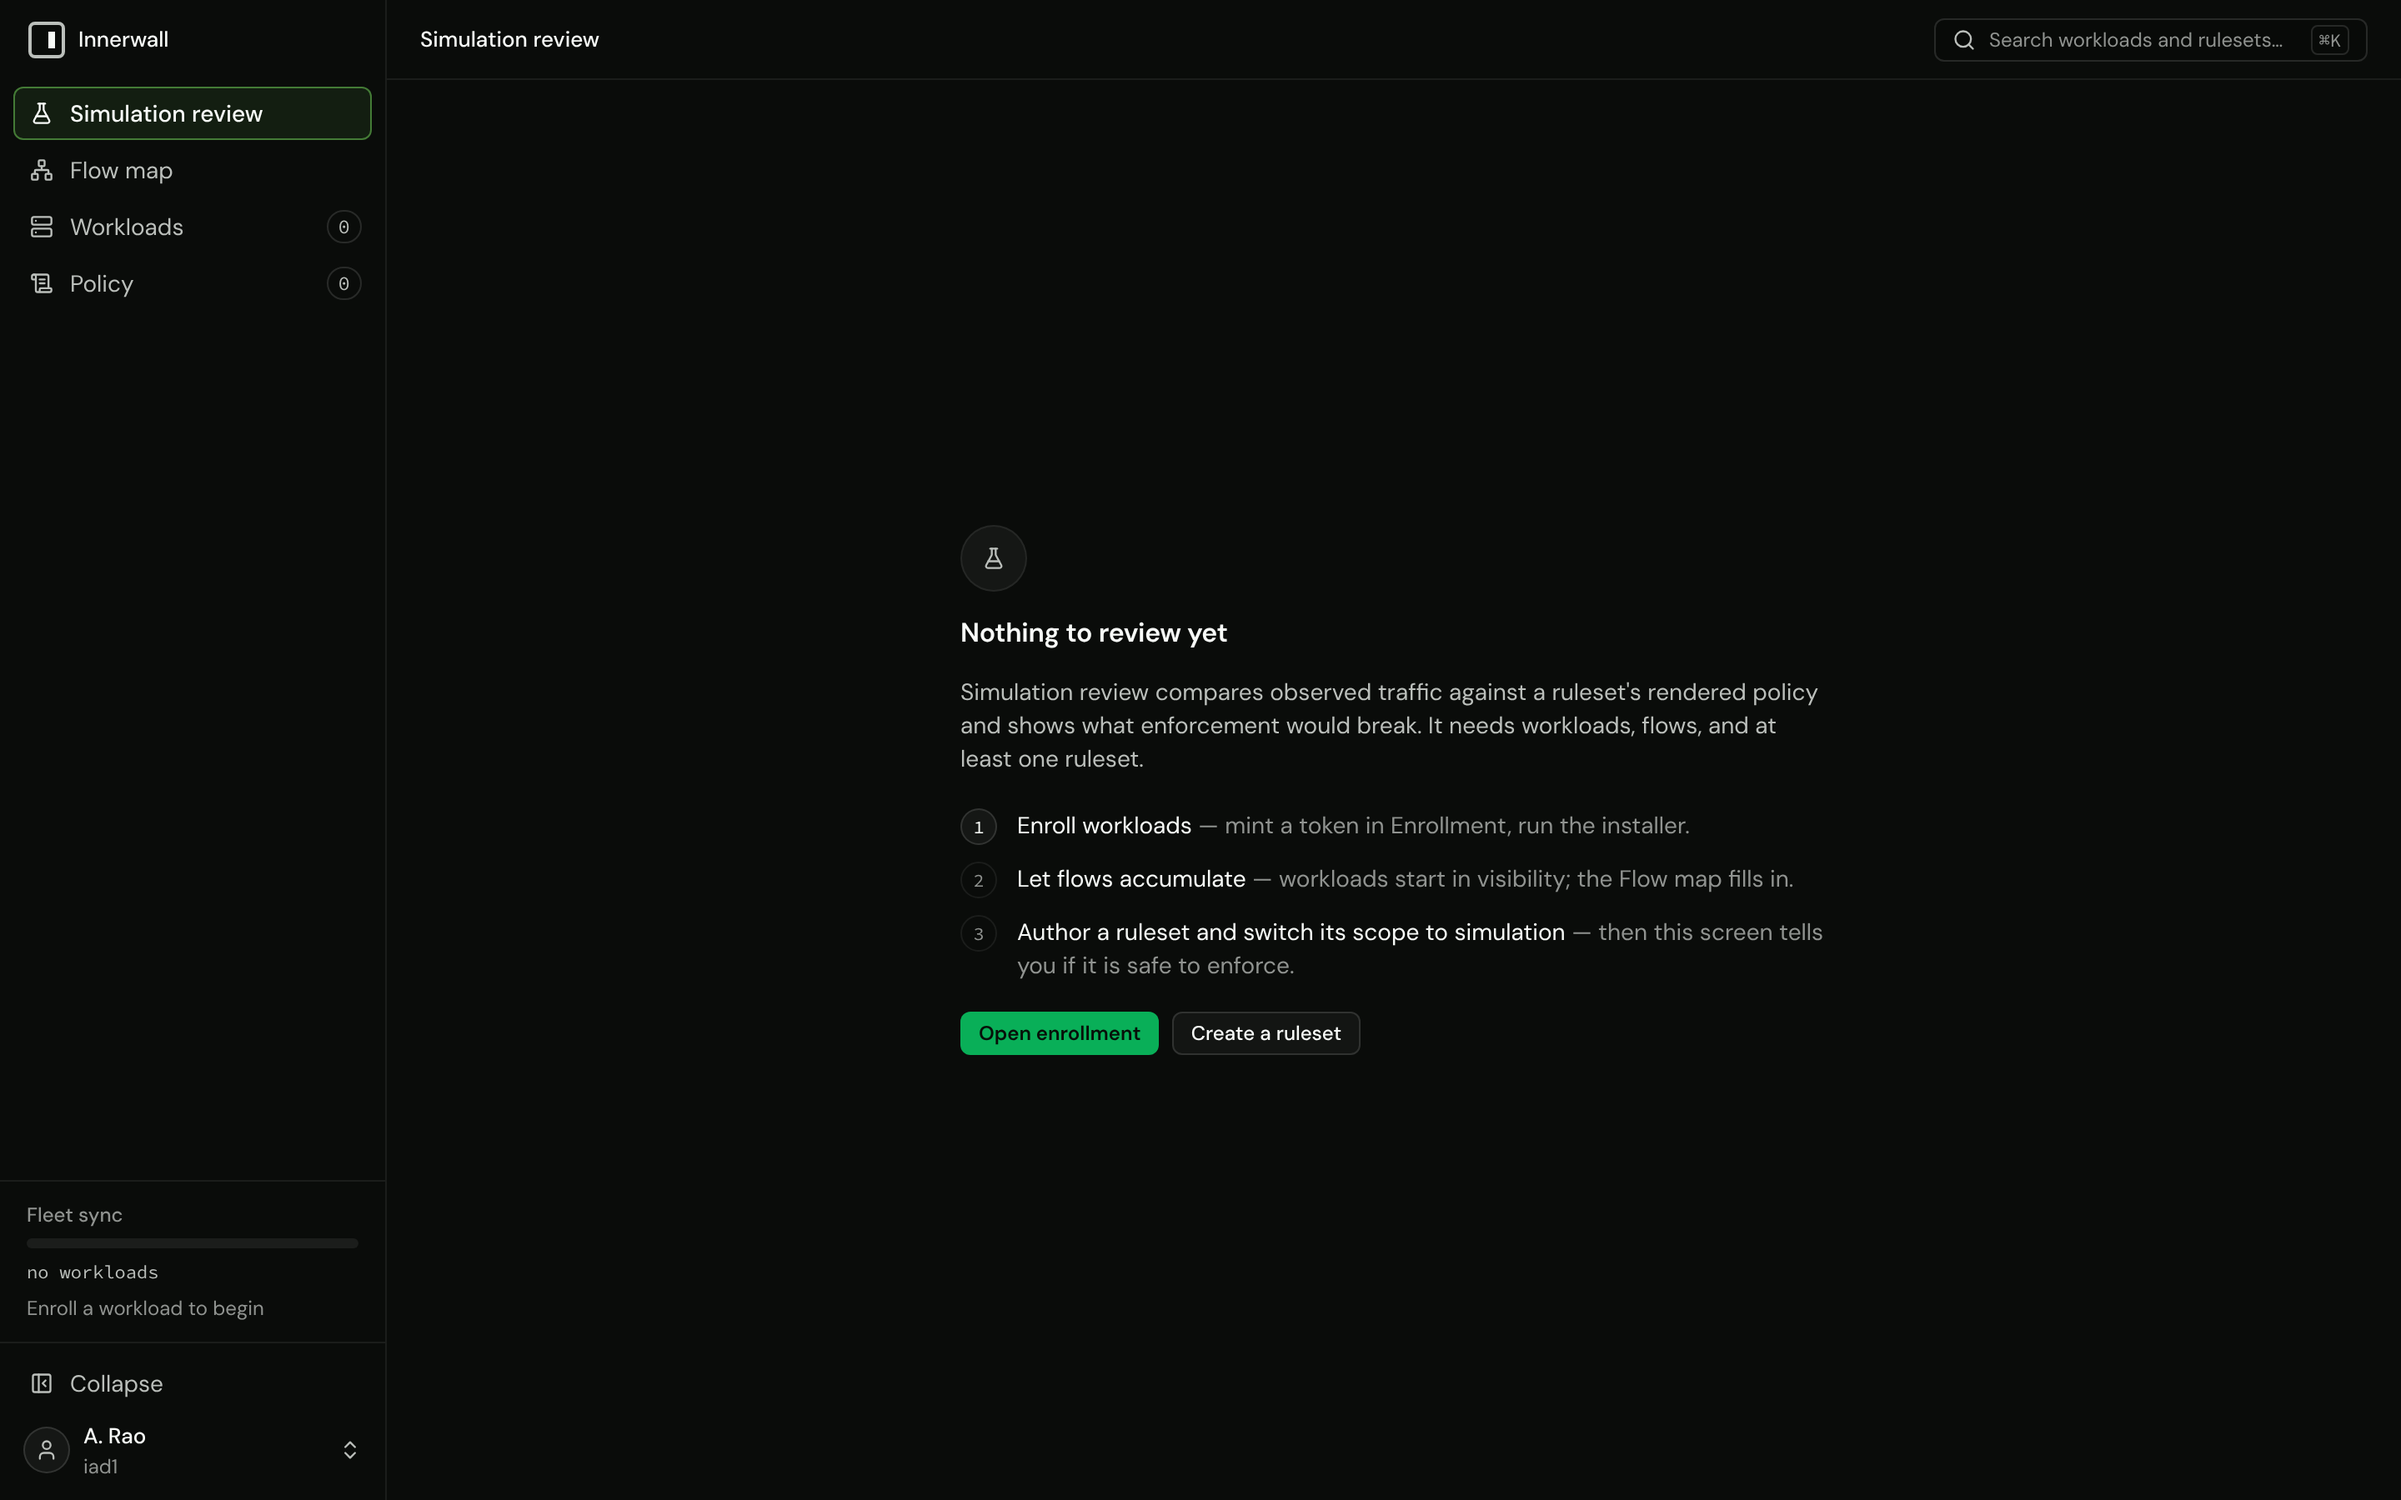
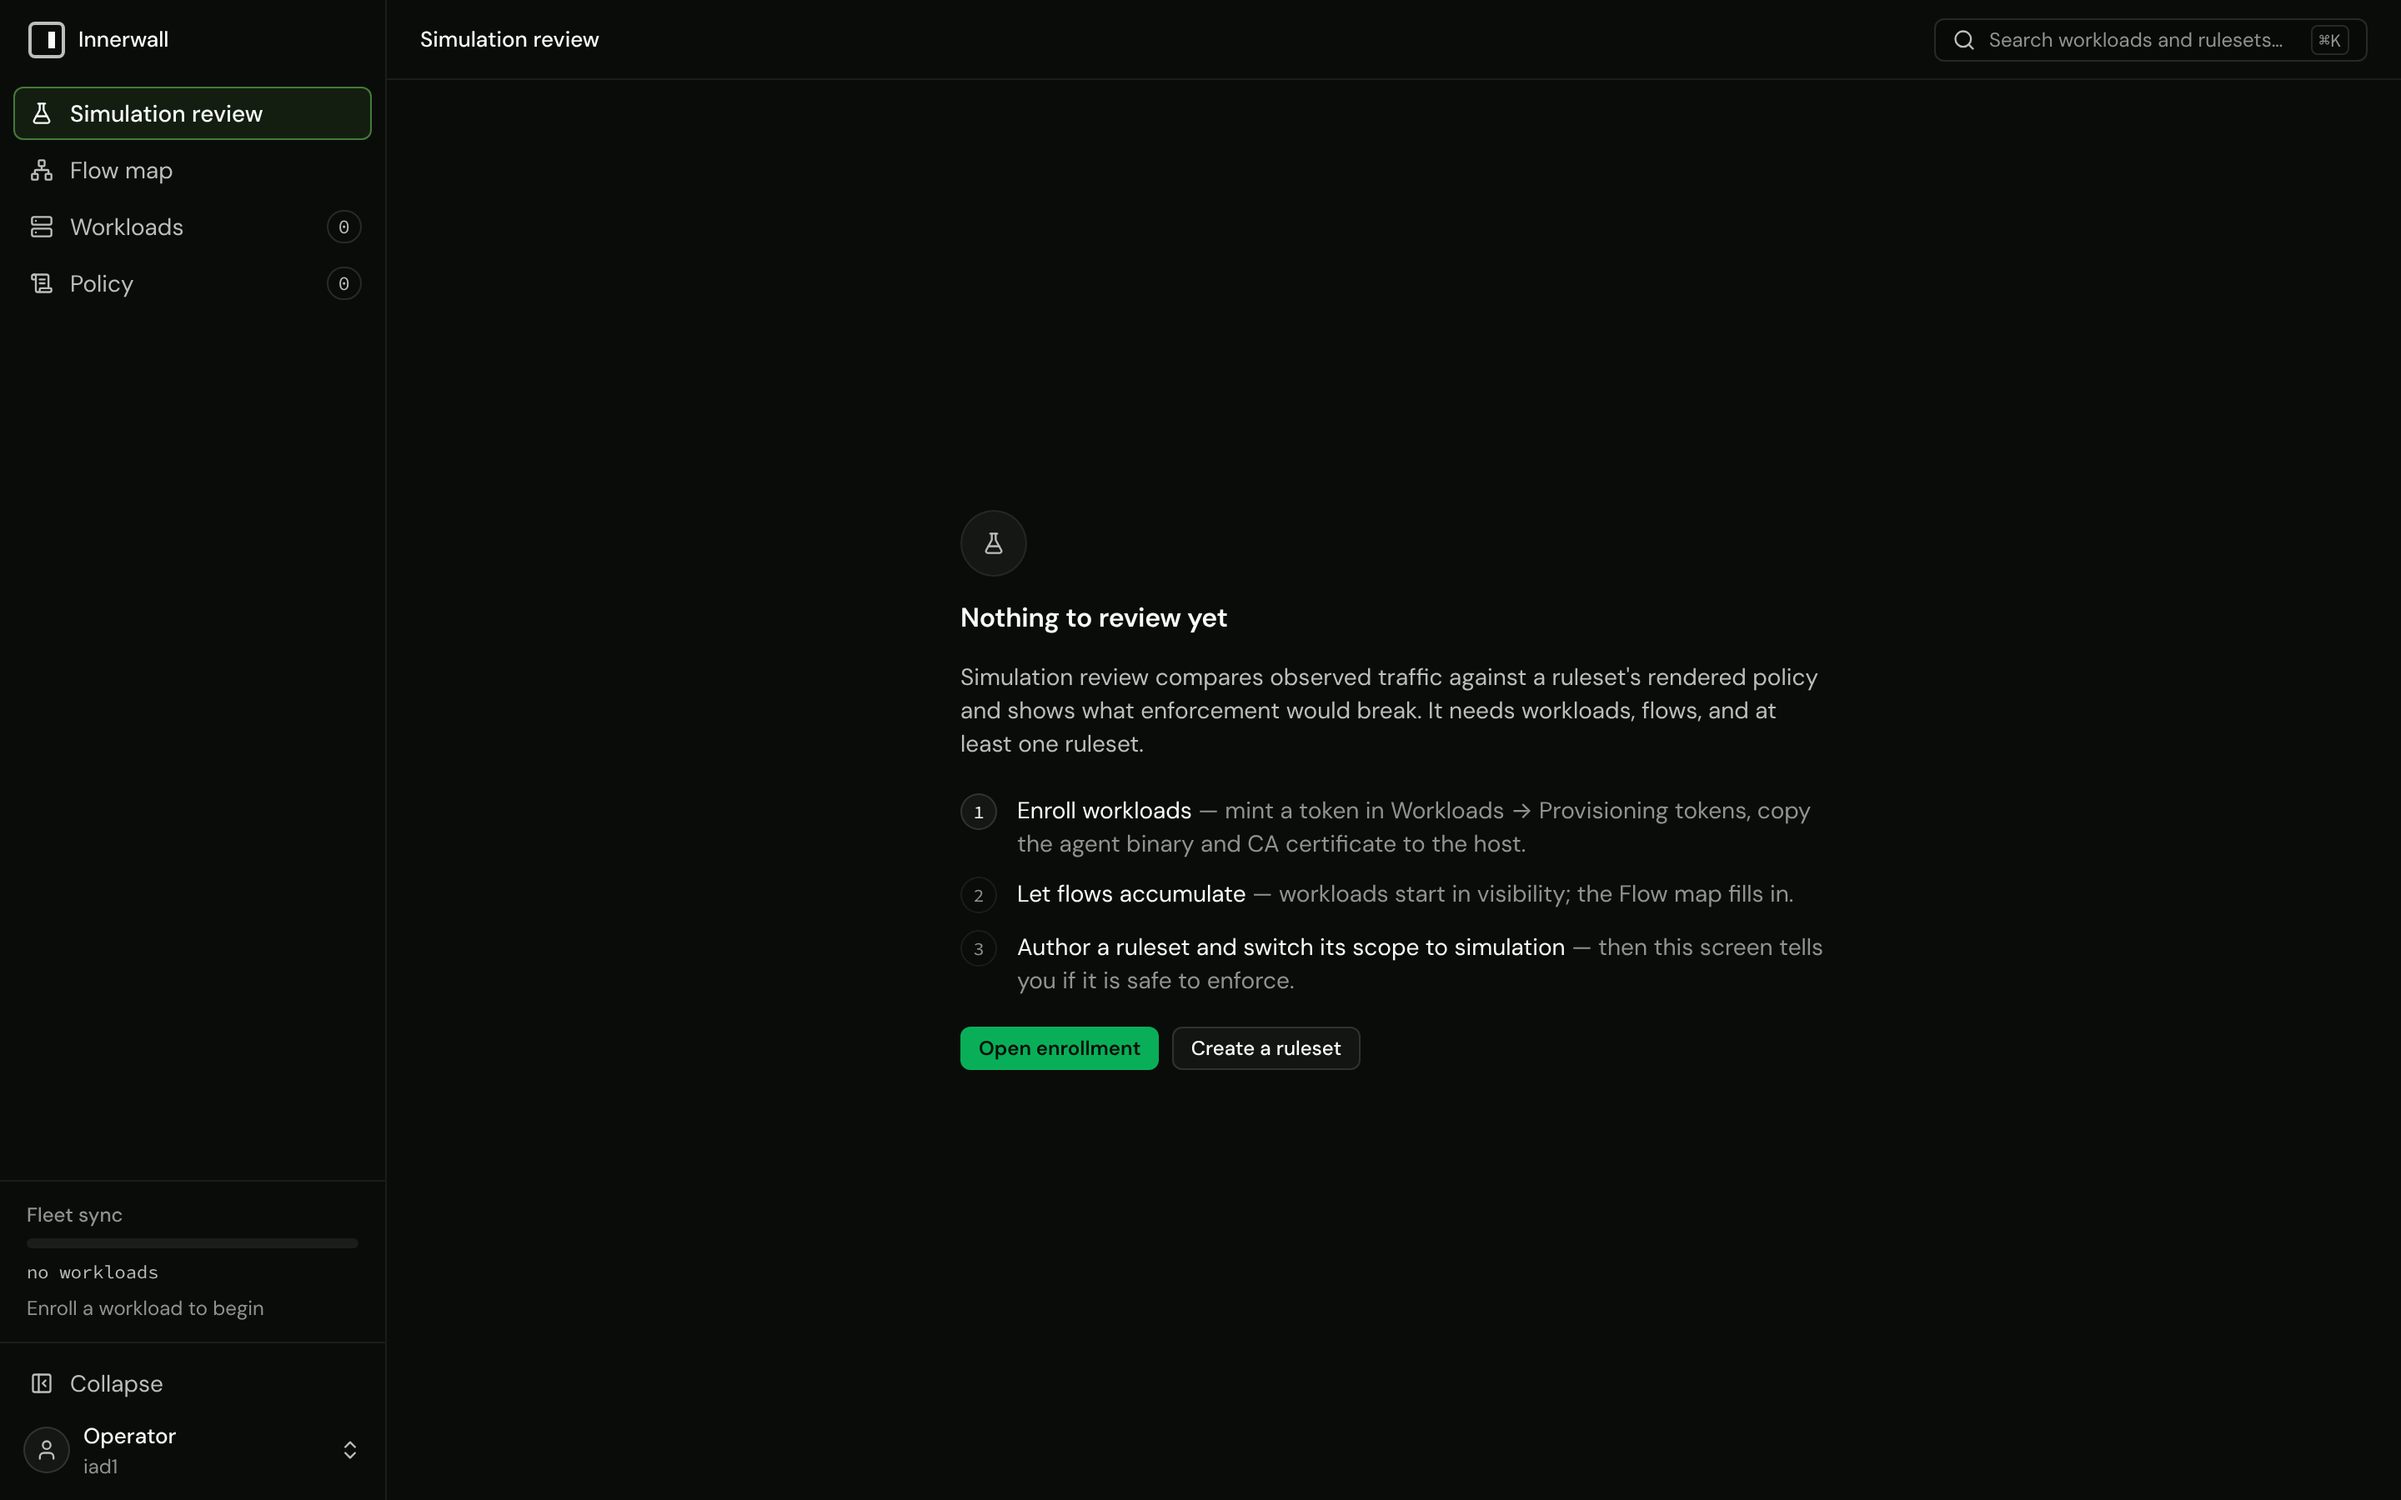
fix(console): enroll-flow copy names what exists
The simulation review's fresh-install step promised an installer that
does not exist and pointed at an "Enrollment" surface no screen is
named. It now says to mint a token in Workloads → Provisioning tokens and
copy the agent binary and CA certificate to the host, which holds
whichever way the agent ends up installed. The mint dialog's enroll
command names the CA certificate ca.crt, the file every install
document produces and installs, so a pasted command finds it.

Fixes #150 (INN-100)

Changed region(s): [[0.4062, 0.4044, 0.75, 0.7156], [0.0312, 0.9333, 0.0625, 0.9644]]

diff --git a/ui/src/routes/fleet/MintDialog.tsx b/ui/src/routes/fleet/MintDialog.tsx
@@ -328,7 +328,7 @@ function ShownOnce({ minted }: { minted: MintedToken }) {
 				<div className="flex flex-col gap-1.5">
 					<span className="type-meta-label text-tertiary">Enroll a host</span>
 					<pre className="rounded-control border border-hairline bg-field-sunk px-3 py-2 type-mono-sm whitespace-pre-wrap text-secondary">
-						{`innerwall-agent enroll --server ${gateway} \\\n  --token ${masked(minted.token)} --bootstrap-ca ./innerwall-ca.crt`}
+						{`innerwall-agent enroll --server ${gateway} \\\n  --token ${masked(minted.token)} --bootstrap-ca ca.crt`}
 					</pre>
 					<span className="type-caption text-tertiary">
 						Distribute the CA certificate alongside the token; the agent uses it

diff --git a/ui/src/routes/review/review.test.tsx b/ui/src/routes/review/review.test.tsx
@@ -898,6 +898,11 @@ describe("simulation review states", () => {
 		expect(
 			await screen.findByRole("heading", { name: "Nothing to review yet" }),
 		).toBeInTheDocument();
+		// Enrolling names the tab tokens are minted in and what the host
+		// needs, whichever way the agent is installed.
+		expect(document.body).toHaveTextContent(
+			"Enroll workloads — mint a token in Workloads → Provisioning tokens, copy the agent binary and CA certificate to the host.",
+		);
 	});
 
 	it("says when every ruleset is disabled", async () => {

diff --git a/ui/src/routes/fleet/tokens.test.tsx b/ui/src/routes/fleet/tokens.test.tsx
@@ -272,6 +272,8 @@ describe("mint dialog", () => {
 		expect(done).toHaveTextContent(
 			"innerwall-agent enroll --server gw.iad1.example:8443",
 		);
+		// The CA certificate by the name every install document gives it.
+		expect(done).toHaveTextContent("--bootstrap-ca ca.crt");
 		expect(done).not.toHaveTextContent("<agent-gateway>");
 		expect(done).not.toHaveTextContent("--gateway-advertise-address");
 	});

diff --git a/ui/src/routes/SimulationReview.tsx b/ui/src/routes/SimulationReview.tsx
@@ -571,7 +571,7 @@ function FreshReview() {
 				steps={[
 					{
 						lead: "Enroll workloads",
-						rest: "mint a token in Enrollment, run the installer.",
+						rest: "mint a token in Workloads → Provisioning tokens, copy the agent binary and CA certificate to the host.",
 					},
 					{
 						lead: "Let flows accumulate",
